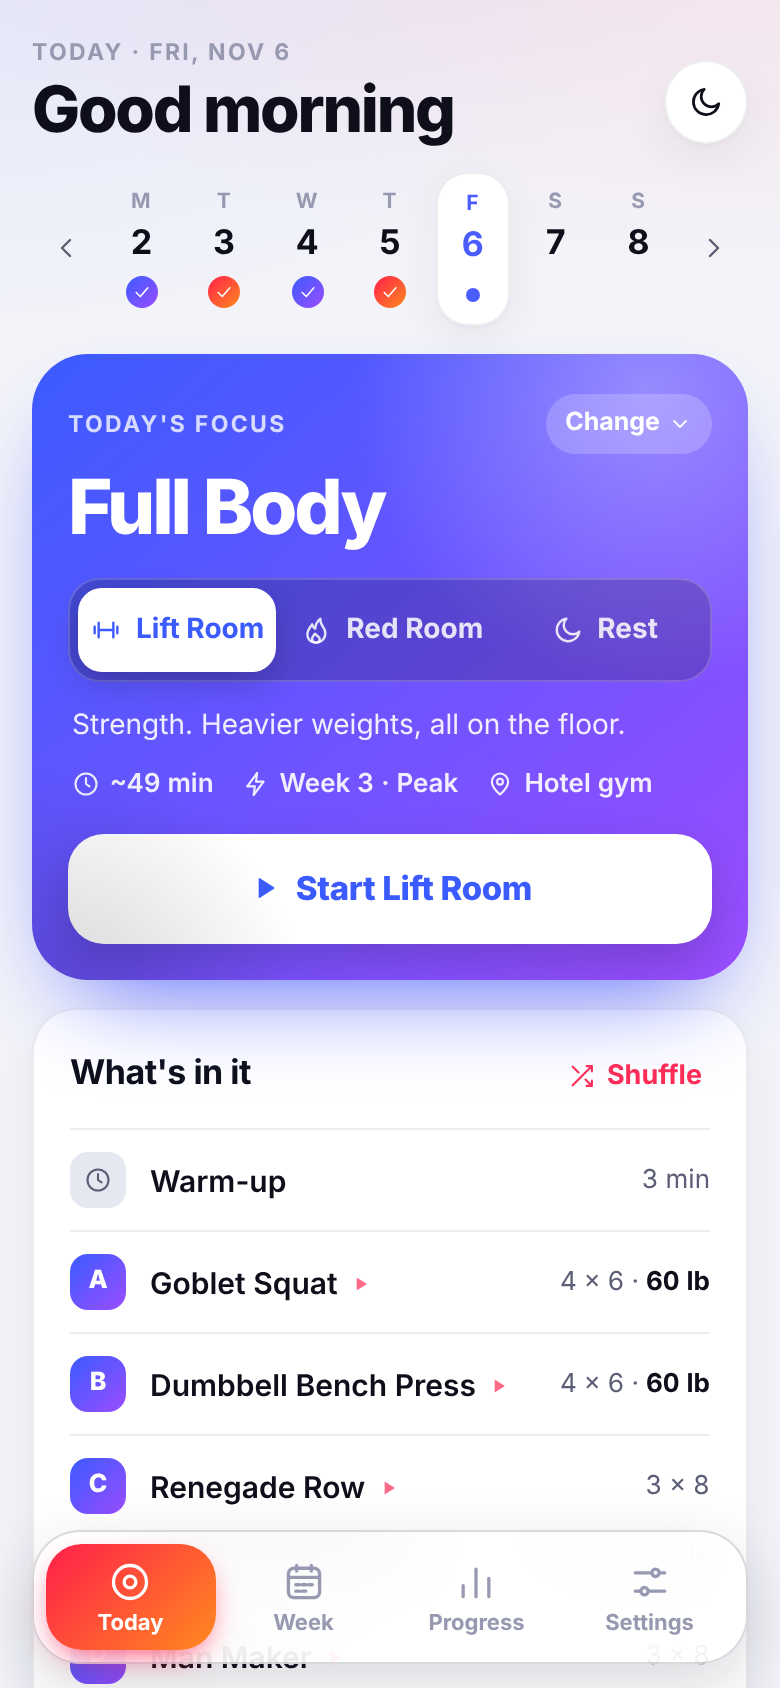
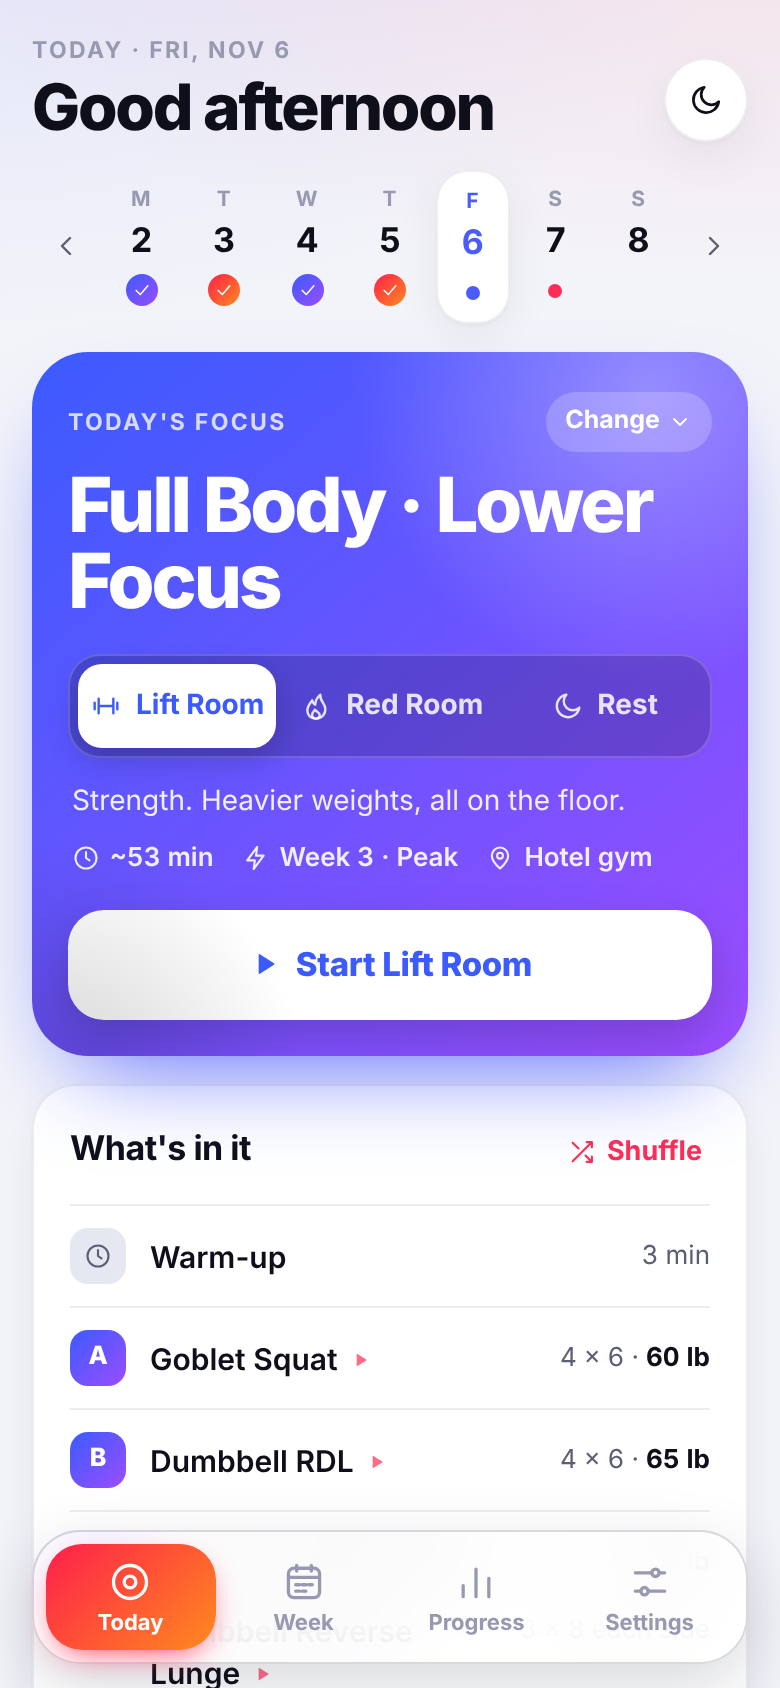
New weekly schedule with swappable days
- Default calendar: Mon Arms, Shoulders & Abs; Tue Legs & Abs; Wed Chest,
  Back & Abs; Thu Abs & Butt; Fri Full Body (lower focus); Sat Full Body
  (upper focus); Sun rest. Rooms alternate Lift / Red through Saturday and
  the default weekly goal is 6.
- Full Body split into lower-focus and upper-focus versions with their own
  main lifts, accessories, warm-ups and Red Room floor work.
- Abs stay in every session: trimming a long bodyweight Lift session now
  drops an accessory pair, never the final block with the core move.
- Swap any two days in a week (room and focus trade places) from the
  Change sheet on Today or Week, including moving a workout onto a rest
  day. "Reset to default week" restores the calendar and rooms.
- Saved data moves to the new calendar; single-day changes are kept and
  old Full Body days become Full Body (lower focus).

Claude-Session: https://claude.ai/code/session_01Tx5GKrw7dyFVqDZcQyPf1z

diff --git a/js/program.js b/js/program.js
@@ -1,7 +1,7 @@
 // Session builder. Pure functions only (no DOM, no storage) so it can be tested.
 //
-// Modeled on a Barry's-style week: every day has a body-part focus (Arms & Abs,
-// Butt & Legs, Chest, Back & Abs...) shared by both rooms, and you pick the room:
+// Modeled on a Barry's-style week: every day has a body-part focus (Arms,
+// Shoulders & Abs; Legs & Abs; Chest, Back & Abs...) shared by both rooms, and you pick the room:
 //   Lift Room - strength only, heavier weights, all on the floor
 //   Red Room  - treadmill intervals alternating with floor strength
 // Training runs in continuous 4-week cycles: Base (3x10) -> Build (4x8) ->
@@ -20,18 +20,19 @@ export const TYPES = {
 export const ROOM_IDS = ['lift', 'red', 'rest'];
 
 export const FOCI = {
-  arms: { label: 'Arms & Abs', short: 'Arms & Abs' },
-  legs: { label: 'Butt & Legs', short: 'Butt & Legs' },
+  arms: { label: 'Arms, Shoulders & Abs', short: 'Arms & Shoulders' },
+  legs: { label: 'Legs & Abs', short: 'Legs' },
   upper: { label: 'Chest, Back & Abs', short: 'Chest & Back' },
   core: { label: 'Abs & Butt', short: 'Abs & Butt' },
-  full: { label: 'Full Body', short: 'Full Body' },
+  fullLower: { label: 'Full Body · Lower Focus', short: 'Full Body · Lower' },
+  fullUpper: { label: 'Full Body · Upper Focus', short: 'Full Body · Upper' },
 };
 export const FOCUS_IDS = Object.keys(FOCI);
 
-/** Monday first. A typical studio body-part calendar (studios vary; change it in Week). */
-export const DEFAULT_FOCUS_WEEK = ['arms', 'legs', 'upper', 'core', 'full', 'legs', 'full'];
-/** Monday first. Three Lift Room days, two Red Room days, weekend off. */
-export const DEFAULT_WEEK = ['lift', 'red', 'lift', 'red', 'lift', 'rest', 'rest'];
+/** Monday first. Your body-part calendar; any day can be changed or swapped. */
+export const DEFAULT_FOCUS_WEEK = ['arms', 'legs', 'upper', 'core', 'fullLower', 'fullUpper', 'fullLower'];
+/** Monday first. Lift and Red alternate through Saturday, Sunday off. */
+export const DEFAULT_WEEK = ['lift', 'red', 'lift', 'red', 'lift', 'red', 'rest'];
 
 export const PHASES = {
   1: { week: 1, name: 'Base', note: 'Groove the movements. Leave 2 reps in the tank.', mainSets: 3, mainReps: 10, accSets: 3, accReps: 12, rir: 2, bwMul: 1, floorReps: 12, speed: 0 },
@@ -67,7 +68,7 @@ export function typeFor(iso, plan, days = {}) {
 /** The body-part focus for a date: your pick for that day, else the weekly calendar. */
 export function focusFor(iso, focusWeek = DEFAULT_FOCUS_WEEK, days = {}) {
   const f = days[iso]?.focus || focusWeek[weekday(iso)];
-  return FOCI[f] ? f : 'full';
+  return FOCI[f] ? f : 'fullLower';
 }
 
 /* ------------------------------------------------------------------ random */
@@ -147,11 +148,12 @@ function makeItem(ex, role, phase, settings, short = false) {
 /* ------------------------------------------------------------------ lift */
 
 const LIFT_SLOTS = {
-  arms: { m1: ['push_v'], m2: ['pull_v', 'pull_h'], a1: ['bi'], a2: ['tri'], a3: ['shoulder'], a4: ['bi'], a5: ['tri'], c1: ['core'] },
+  arms: { m1: ['push_v'], m2: ['pull_v', 'pull_h'], a1: ['bi'], a2: ['tri'], a3: ['shoulder'], a4: ['shoulder', 'push_v'], a5: ['bi', 'tri'], c1: ['core'] },
   legs: { m1: ['squat'], m2: ['hinge'], a1: ['lunge'], a2: ['ham', 'hinge'], a3: ['glute'], a4: ['quad', 'lunge'], a5: ['calf', 'glute'], c1: ['core'] },
-  upper: { m1: ['push_h'], m2: ['pull_h', 'pull_v'], a1: ['pull_v', 'pull_h'], a2: ['push_h', 'push_v'], a3: ['shoulder'], a4: ['core'], a5: ['push_v', 'tri'], c1: ['core'] },
+  upper: { m1: ['push_h'], m2: ['pull_h', 'pull_v'], a1: ['pull_v', 'pull_h'], a2: ['push_h'], a3: ['pull_h', 'pull_v'], a4: ['core'], a5: ['push_h', 'push_v'], c1: ['core'] },
   core: { m1: ['glute', 'hinge'], m2: ['squat', 'lunge'], a1: ['core'], a2: ['glute'], a3: ['lunge', 'ham'], a4: ['core'], a5: ['glute', 'hinge'], c1: ['core'] },
-  full: { m1: ['squat', 'hinge'], m2: ['push_h', 'push_v'], a1: ['pull_h', 'pull_v'], a2: ['lunge'], a3: ['power'], a4: ['shoulder', 'push_v'], a5: ['glute', 'hinge'], c1: ['core'] },
+  fullLower: { m1: ['squat'], m2: ['hinge'], a1: ['push_h', 'push_v'], a2: ['lunge'], a3: ['pull_h', 'pull_v'], a4: ['glute', 'ham'], a5: ['power'], c1: ['core'] },
+  fullUpper: { m1: ['push_h', 'push_v'], m2: ['pull_h', 'pull_v'], a1: ['squat', 'lunge'], a2: ['push_v', 'push_h'], a3: ['pull_v', 'pull_h'], a4: ['hinge', 'glute'], a5: ['shoulder', 'bi', 'tri'], c1: ['core'] },
 };
 const LIFT_LAYOUT = {
   30: [['m1'], ['m2', 'a1'], ['a2', 'c1']],
@@ -164,7 +166,8 @@ const WARMUPS = {
   legs: ['Jumping Jacks', 'Air Squats', "World's Greatest Stretch", 'Glute Bridges', 'Lateral Lunges'],
   upper: ['Jumping Jacks', 'Arm Circles', 'Inchworm to Push-up', 'Thoracic Rotations', 'Scap Push-ups'],
   core: ['Jumping Jacks', 'Glute Bridges', 'Dead Bugs', "World's Greatest Stretch", 'Air Squats'],
-  full: ['Jumping Jacks', 'Inchworm to Push-up', 'Air Squats', "World's Greatest Stretch", 'Arm Circles'],
+  fullLower: ['Jumping Jacks', 'Air Squats', "World's Greatest Stretch", 'Glute Bridges', 'Inchworm to Push-up'],
+  fullUpper: ['Jumping Jacks', 'Arm Circles', 'Inchworm to Push-up', 'Air Squats', 'Scap Push-ups'],
 };
 const STRETCHES = ['Hamstring Stretch', 'Hip Flexor Stretch · left', 'Hip Flexor Stretch · right', "Child's Pose", 'Chest Opener', 'Figure-4 Stretch'];
 const MOBILITY = ['Cat-Cow', "World's Greatest Stretch · left", "World's Greatest Stretch · right", '90/90 Hip Switches', 'Thread the Needle', 'Deep Squat Hold', 'Pigeon · left', 'Pigeon · right', 'Thoracic Rotations', "Child's Pose"];
@@ -214,9 +217,10 @@ function liftBlocks(focus, settings, phase, mins, salt, swaps, week, date) {
   });
   if (settings.finisher) blocks.push(finisher(settings, mins, phase, `${date}|${salt}`));
   blocks.push(cooldown(mins));
-  // Bodyweight sessions run long (more reps); drop the last accessory pair to fit.
+  // Bodyweight sessions run long (more reps); drop an accessory pair to fit,
+  // never the last block, which carries the abs.
   const strength = () => blocks.filter((b) => b.kind === 'strength');
-  while (estimate(blocks) > mins + 8 && strength().length > 3) blocks.splice(blocks.indexOf(strength().at(-1)), 1);
+  while (estimate(blocks) > mins + 8 && strength().length > 3) blocks.splice(blocks.indexOf(strength().at(-2)), 1);
   return { blocks, estMin: estimate(blocks) };
 }
 
@@ -292,11 +296,12 @@ function cardioSeg(seg, settings, phase, r) {
 
 const RED_SIZE = { 30: { warm: 180, tread: 360, rounds: 2, moves: 3 }, 45: { warm: 300, tread: 540, rounds: 3, moves: 3 }, 60: { warm: 300, tread: 720, rounds: 3, moves: 4 } };
 const FLOOR_PATTERNS = {
-  arms: ['bi', 'tri', 'shoulder', 'push_v', 'bi', 'tri'],
+  arms: ['bi', 'tri', 'shoulder', 'push_v', 'shoulder', 'bi'],
   legs: ['squat', 'hinge', 'lunge', 'glute', 'ham', 'quad'],
-  upper: ['push_h', 'pull_h', 'pull_v', 'push_h', 'shoulder', 'push_v'],
+  upper: ['push_h', 'pull_h', 'pull_v', 'push_h', 'pull_h', 'push_v'],
   core: ['glute', 'core', 'hinge', 'lunge', 'core', 'glute'],
-  full: ['squat', 'push_h', 'hinge', 'pull_h', 'lunge', 'power'],
+  fullLower: ['squat', 'hinge', 'lunge', 'push_h', 'glute', 'pull_h'],
+  fullUpper: ['push_h', 'pull_h', 'push_v', 'squat', 'pull_v', 'lunge'],
 };
 
 function redBlocks(date, focus, settings, phase, mins, salt, swaps) {

diff --git a/js/app.js b/js/app.js
@@ -2,7 +2,7 @@ import { store, uid } from './store.js';
 import { icon } from './icons.js';
 import { EX_BY_ID, LOCATIONS, EQUIPMENT, CARDIO } from './exercises.js';
 import {
-  TYPES, ROOM_IDS, FOCI, FOCUS_IDS, PHASES, buildSession, cycleInfo, typeFor, focusFor,
+  TYPES, ROOM_IDS, FOCI, FOCUS_IDS, PHASES, DEFAULT_WEEK, DEFAULT_FOCUS_WEEK, buildSession, cycleInfo, typeFor, focusFor,
   toISO, parseISO, addDays, mondayOf, weekday, blockSeconds, alternatives, suggestLoad, lastPerformance,
   sessionVolume, personalBests, newBests,
 } from './program.js';
@@ -29,7 +29,7 @@ const dateLabel = (iso) => parseISO(iso).toLocaleDateString(undefined, { weekday
 const shortDate = (iso) => parseISO(iso).toLocaleDateString(undefined, { month: 'short', day: 'numeric' });
 const ROOM_ICON = { lift: 'dumbbell', red: 'flame', rest: 'moon', recovery: 'moon' };
 const LOC_ICON = { gym: 'dumbbell', hotel: 'pin', room: 'moon', outdoor: 'sun' };
-const focusLabel = (f) => FOCI[f]?.label || 'Full Body';
+const focusLabel = (f) => FOCI[f]?.label || (f === 'full' ? 'Full Body' : 'Full Body · Lower Focus');
 
 const ui = { tab: 'today', date: todayISO(), workout: false, collapsed: {}, month: todayISO().slice(0, 7) };
 
@@ -83,6 +83,15 @@ function setRoom(date, type) {
     if (type === s.plan[weekday(date)]) delete d.type; else d.type = type;
     if (Object.keys(d).length) s.days[date] = d; else delete s.days[date];
   });
+}
+
+/** Set a single day's room and focus, storing only what differs from the usual week. */
+function setDay(s, date, type, focus) {
+  const wd = weekday(date);
+  const d = { ...(s.days[date] || {}) };
+  if (type === s.plan[wd]) delete d.type; else d.type = type;
+  if (focus === s.focusWeek[wd]) delete d.focus; else d.focus = focus;
+  if (Object.keys(d).length) s.days[date] = d; else delete s.days[date];
 }
 
 function targetText(it) {
@@ -184,7 +193,7 @@ function renderToday() {
   const whose = isToday ? "Today's" : `${dayName(date, 'long')}'s`;
   html += `<section class="hero t-${type}">
     <div class="hero-top"><span class="eyebrow">${isRest ? 'Rest day' : `${whose} focus`}</span>
-      ${isRest ? '' : `<button class="hero-chip" data-action="focus-sheet" data-date="${date}">Change ${icon('chevD', 12)}</button>`}</div>
+      <button class="hero-chip" data-action="focus-sheet" data-date="${date}">${isRest ? 'Swap' : 'Change'} ${icon('chevD', 12)}</button></div>
     <h2 class="hero-title">${isRest ? 'Recharge' : esc(focusLabel(focus))}</h2>
     ${roomToggle(date, type)}
     <p class="hero-sub">${esc(TYPES[type].sub)}</p>
@@ -253,7 +262,7 @@ function renderWeek() {
         <span class="dc-body"><b>${type === 'rest' ? 'Rest day' : esc(focusLabel(focus))}</b><small>${sub}</small></span>
         ${icon('chevR', 16)}
       </button>
-      <div class="dc-foot">${roomToggle(d, type, 'sm')}${type === 'rest' ? '' : `<button class="text-btn sm" data-action="focus-sheet" data-date="${d}">Focus ${icon('chevD', 12)}</button>`}</div>
+      <div class="dc-foot">${roomToggle(d, type, 'sm')}<button class="text-btn sm" data-action="focus-sheet" data-date="${d}">${type === 'rest' ? 'Swap' : 'Change'} ${icon('chevD', 12)}</button></div>
     </div>`;
   }).join('');
 
@@ -263,7 +272,7 @@ function renderWeek() {
     <div class="usual-row">${st().plan.map((t, i) => `<span class="u-day t-${t}"><small>${'MTWTFSS'[i]}</small>${icon(ROOM_ICON[t], 14)}</span>`).join('')}</div>
     <div class="actions row">
       ${differs ? `<button class="btn primary sm" data-action="save-usual">Save this week as usual</button>` : ''}
-      <button class="btn sm" data-action="reset-usual">Reset to 3 Lift + 2 Red</button>
+      <button class="btn sm" data-action="reset-usual">Reset to default week</button>
     </div>
   </section>`;
   return html;
@@ -738,9 +747,20 @@ function closeSheet() {
 
 function focusSheet(date) {
   const cur = focusOf(date);
-  openSheet(`<h2>Body-part focus</h2><p class="muted small">${dateLabel(date)}. The focus is the same whether you pick Lift Room or Red Room.</p>
+  const rest = typeOf(date) === 'rest';
+  const mon = mondayOf(date);
+  const others = Array.from({ length: 7 }, (_, i) => addDays(mon, i)).filter((d) => d !== date);
+  const swap = `<h3 class="section-title">Swap with another day</h3>
+    <p class="muted small">Trades the whole day, room and focus, for this week only.</p>
+    <div class="swap-days">${others.map((d) => { const t = typeOf(d); return `<button class="swap-day t-${t}" data-action="swap-day" data-a="${date}" data-b="${d}"><b>${dayName(d)}</b><small>${t === 'rest' ? 'Rest' : esc(FOCI[focusOf(d)].short)}</small><i>${icon(ROOM_ICON[t], 12)}</i></button>`; }).join('')}</div>`;
+  if (rest) {
+    openSheet(`<h2>Rest day</h2><p class="muted small">${dateLabel(date)}. Move a workout here by swapping with another day.</p>${swap}`);
+    return;
+  }
+  openSheet(`<h2>Change ${esc(dayName(date, 'long'))}</h2><p class="muted small">${dateLabel(date)}. The focus is the same whether you pick Lift Room or Red Room.</p>
     <div class="list">${FOCUS_IDS.map((f) => `<button class="set-row radio ${cur === f ? 'on' : ''}" data-action="pick-focus" data-date="${date}" data-v="${f}"><span><b>${esc(FOCI[f].label)}</b></span><i class="dot"></i></button>`).join('')}</div>
-    <label class="check-row"><input type="checkbox" id="focus-every"> Use this every ${esc(dayName(date, 'long'))}</label>`);
+    <label class="check-row"><input type="checkbox" id="focus-every"> Use this every ${esc(dayName(date, 'long'))}</label>
+    ${swap}`);
 }
 
 function swapSheet(bid, i) {
@@ -788,7 +808,7 @@ function welcomeSheet() {
   openSheet(`<div class="welcome">
     <div class="wordmark">ONYX</div>
     <h2>Your studio week, anywhere</h2>
-    <p class="muted">Every day has a body-part focus, like Arms & Abs or Butt & Legs. You pick the room:</p>
+    <p class="muted">Every day has a body-part focus, like Arms & Shoulders or Legs, with abs built in. You pick the room:</p>
     <div class="rooms">
       <div class="room-card t-lift">${icon('dumbbell', 22)}<b>Lift Room</b><small>Strength. Heavier weights, all on the floor.</small></div>
       <div class="room-card t-red">${icon('flame', 22)}<b>Red Room</b><small>Treadmill intervals with floor strength.</small></div>
@@ -962,7 +982,17 @@ const actions = {
     });
     render(); toast('Saved as your usual week');
   },
-  'reset-usual': () => { store.update((s) => { s.plan = ['lift', 'red', 'lift', 'red', 'lift', 'rest', 'rest']; }); render(); toast('Usual week: 3 Lift + 2 Red'); },
+  'reset-usual': () => { store.update((s) => { s.plan = [...DEFAULT_WEEK]; s.focusWeek = [...DEFAULT_FOCUS_WEEK]; }); render(); toast('Back to the default week'); },
+  'swap-day': (el) => {
+    const { a, b } = el.dataset;
+    store.update((s) => {
+      const A = [typeFor(a, s.plan, s.days), focusFor(a, s.focusWeek, s.days)];
+      const B = [typeFor(b, s.plan, s.days), focusFor(b, s.focusWeek, s.days)];
+      setDay(s, a, ...B);
+      setDay(s, b, ...A);
+    });
+    closeSheet(); render(); toast(`Swapped ${dayName(a)} and ${dayName(b)}`);
+  },
   'restart-cycle': () => { store.update((s) => { s.settings.programStart = mondayOf(todayISO()); }); render(); toast('Back to week 1: Base'); },
   step: (el) => {
     const by = Number(el.dataset.by);

diff --git a/js/store.js b/js/store.js
@@ -10,7 +10,7 @@ const usesPounds = () => {
 };
 
 export const DEFAULTS = () => ({
-  version: 2,
+  version: 3,
   settings: {
     unit: usesPounds() ? 'lb' : 'kg',
     theme: 'auto',
@@ -23,7 +23,7 @@ export const DEFAULTS = () => ({
     sound: true,
     restMain: 120,
     restAcc: 60,
-    goal: 5, // sessions a week
+    goal: DEFAULT_WEEK.filter((t) => t !== 'rest').length, // sessions a week
     programStart: mondayOf(toISO(new Date())), // week 1 of the current 4-week cycle
     onboarded: false,
   },
@@ -36,21 +36,39 @@ export const DEFAULTS = () => ({
 });
 
 // Version 1 used trip dates, a recovery day in the plan and four focus names.
-const OLD_FOCUS = { lower: 'legs', upper: 'upper', full: 'full', arms: 'arms' };
+// Version 2 had one Full Body focus and weekends off.
+const V1_FOCUS = { lower: 'legs', upper: 'upper', full: 'full', arms: 'arms' };
+const V2_WEEK = ['lift', 'red', 'lift', 'red', 'lift', 'rest', 'rest'];
+const fullV3 = (f) => (f === 'full' ? 'fullLower' : f);
+
 export function migrate(parsed) {
-  if ((parsed.version || 1) >= 2) return parsed;
-  const s = { ...(parsed.settings || {}) };
-  if (s.tripStart && !s.programStart) s.programStart = s.tripStart;
-  delete s.tripStart; delete s.tripWeeks;
-  const days = {};
-  for (const [d, v] of Object.entries(parsed.days || {})) {
-    const nv = { ...v };
-    if (nv.focus) nv.focus = OLD_FOCUS[nv.focus] || 'full';
-    if (nv.type === 'recovery') nv.type = 'rest';
-    days[d] = nv;
+  let out = parsed;
+  if ((out.version || 1) < 2) {
+    const s = { ...(out.settings || {}) };
+    if (s.tripStart && !s.programStart) s.programStart = s.tripStart;
+    delete s.tripStart; delete s.tripWeeks;
+    const days = {};
+    for (const [d, v] of Object.entries(out.days || {})) {
+      const nv = { ...v };
+      if (nv.focus) nv.focus = V1_FOCUS[nv.focus] || 'full';
+      if (nv.type === 'recovery') nv.type = 'rest';
+      days[d] = nv;
+    }
+    const plan = Array.isArray(out.plan) ? out.plan.map((t) => (t === 'recovery' ? 'rest' : t)) : undefined;
+    out = { ...out, version: 2, settings: s, days, plan, swaps: {} };
   }
-  const plan = Array.isArray(parsed.plan) ? parsed.plan.map((t) => (t === 'recovery' ? 'rest' : t)) : undefined;
-  return { ...parsed, version: 2, settings: s, days, plan, swaps: {} };
+  if (out.version < 3) {
+    // New body-part calendar for every week; your single-day changes are kept.
+    const s = { ...(out.settings || {}) };
+    const wasDefault = !Array.isArray(out.plan) || out.plan.join() === V2_WEEK.join();
+    const plan = wasDefault ? [...DEFAULT_WEEK] : out.plan;
+    if (wasDefault && (s.goal == null || s.goal === 5)) s.goal = DEFAULT_WEEK.filter((t) => t !== 'rest').length;
+    const days = {};
+    for (const [d, v] of Object.entries(out.days || {})) days[d] = v.focus ? { ...v, focus: fullV3(v.focus) } : v;
+    const sessions = (out.sessions || []).map((x) => (x.focus === 'full' ? { ...x, focus: 'fullLower' } : x));
+    out = { ...out, version: 3, settings: s, plan, focusWeek: [...DEFAULT_FOCUS_WEEK], days, sessions };
+  }
+  return out;
 }
 
 let state = load();

diff --git a/css/styles.css b/css/styles.css
@@ -562,3 +562,14 @@ body.in-workout .tabbar { transform: translate(-50%, 140%); opacity: 0; pointer-
 .timer .anim .ag1, .timer .anim .ag2 { stop-color: #fff; }
 .timer .anim .floor { stroke: rgba(255, 255, 255, .35); }
 .timer .anim .far { opacity: .45; }
+
+/* Swap a whole day */
+.swap-days { display: grid; grid-template-columns: repeat(3, 1fr); gap: 6px; margin-top: 8px; }
+.swap-day { position: relative; display: grid; gap: 1px; text-align: left; padding: 10px 10px 9px 12px; border-radius: 14px; background: var(--surface-2); border: 1px solid var(--line); overflow: hidden; }
+.swap-day::before { content: ""; position: absolute; left: 0; top: 0; bottom: 0; width: 4px; background: linear-gradient(180deg, var(--g1), var(--g2)); }
+.swap-day.t-rest::before { background: var(--surface-3); }
+.swap-day b { font-size: 14px; }
+.swap-day small { font-size: 11.5px; color: var(--text-2); line-height: 1.25; }
+.swap-day i { position: absolute; top: 9px; right: 9px; color: var(--c); }
+.swap-day.t-rest i { color: var(--text-3); }
+.swap-day:active { transform: scale(.97); }

diff --git a/README.md b/README.md
@@ -1,8 +1,9 @@
 # Onyx: your studio week, anywhere
 
 Onyx gives you a Barry's-style week of strength and cardio, at home or on the
-road. Every day has a **body-part focus** (Arms & Abs, Butt & Legs, Chest, Back
-& Abs, Abs & Butt, Full Body), and you choose the room:
+road. Every day has a **body-part focus** (Arms, Shoulders & Abs; Legs & Abs;
+Chest, Back & Abs; Abs & Butt; Full Body with a lower or upper focus), and you
+choose the room:
 
 - **Lift Room**: strength. Heavier weights, lower reps, all on the floor.
 - **Red Room**: treadmill intervals alternating with floor strength circuits.
@@ -21,7 +22,8 @@ Four tabs:
 - **Today**: the day's focus, a big **Lift Room / Red Room / Rest** switch and
   one Start button. Below it: what's in the workout, where you're training (tap
   to switch when you travel), and a one-tap way to log a studio class instead.
-- **Week**: all seven days, each with its own Lift / Red / Rest switch and focus.
+- **Week**: all seven days, each with its own Lift / Red / Rest switch, and
+  **Change** to pick a different focus or swap with another day.
   Changes apply to that day only; **Save this week as usual** makes it your
   default for every week.
 - **Progress**: workouts this week against your goal, week streak, a month
@@ -31,10 +33,22 @@ Four tabs:
 
 ## The program
 
-- **Default week**: Mon Lift, Tue Red, Wed Lift, Thu Red, Fri Lift, weekend off.
-  Body-part calendar: Mon Arms & Abs, Tue Butt & Legs, Wed Chest, Back & Abs,
-  Thu Abs & Butt, Fri Full Body, Sat Butt & Legs, Sun Full Body. Studios vary,
-  so change any day's focus (once, or every week).
+- **Default week**:
+
+  | Day | Focus | Room |
+  |---|---|---|
+  | Mon | Arms & Shoulders, with abs | Lift |
+  | Tue | Legs, with abs | Red |
+  | Wed | Chest & Back, with abs | Lift |
+  | Thu | Abs & Butt | Red |
+  | Fri | Full Body, lower focus | Lift |
+  | Sat | Full Body, upper focus | Red |
+  | Sun | Rest | |
+
+  Everything is swappable: flip any day between Lift Room, Red Room and Rest,
+  change its focus once or every week, or **swap two days** (room and focus
+  trade places for that week). Abs are built into every session (a core move
+  in the last Lift block, and every Red Room floor circuit ends on core).
 - **4-week cycles, all year**: Base (3 x 10), Build (4 x 8), Peak (4 x 6), then a
   lighter Deload week, and repeat. Main lifts stay the same through a cycle so
   you can add weight; accessories rotate weekly.
